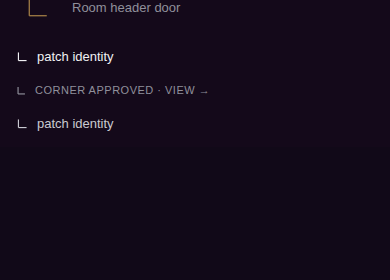
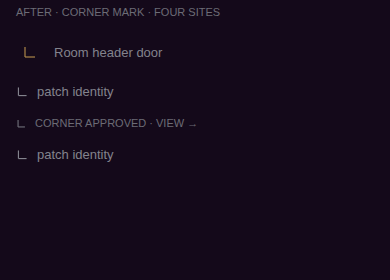
Close the room-header action gap so its marks match the room list.
The 44 boxes now touch like the room-list pair, and CornerGlyph holds its
16px painted arm at size 28 so it reads with the overflow dots beside it.

diff --git a/apps/mobile/sources/components/buzz/CornerGlyph.tsx b/apps/mobile/sources/components/buzz/CornerGlyph.tsx
@@ -2,7 +2,7 @@ import React from 'react';
 import Svg, { Line } from 'react-native-svg';
 import { DECORATIVE_GLYPH_PROPS } from './decorative-glyph';
 import brand from '@/buzz/brand.json';
-import { chromeStrokeWidth } from './MembersGlyph';
+import { CHROME_STROKE_REF_SIZE, chromeStrokeWidth } from './MembersGlyph';
 
 /**
  * The corner sigil, drawn rather than typed. Neither `◇` nor `└` is in Space
@@ -12,21 +12,21 @@ import { chromeStrokeWidth } from './MembersGlyph';
  * box is centred on the box by construction, so it sits level with the
  * overflow mark beside it with nothing to tune.
  *
- * The extent is 15 of the 24 viewBox, which at the 16px header size drew the
- * ~10px mark the character's ~0.6em drew: optically the same mark-size as the
- * overflow dots. The header now draws at 28; the same 15-of-24 fraction keeps
- * this mark optically the same size as the overflow mark beside it.
+ * The extent is 15 of the 24 viewBox at the 16px size that first matched the
+ * overflow dots (~10px painted, the character's ~0.6em). The header now draws
+ * at 28; the overflow holds its painted radius to that 16px weight, so this
+ * mark holds the same ~10px painted extent instead of growing with the box.
+ * Inline sizes (13, 11) stay on 15-of-24.
  *
  * Two strokes meeting at the bottom left: the box-drawing corner the Room
  * list already read as the kind mark, never a diamond.
  */
-const CORNER_EXTENT = 15;
-const CENTRE = 12;
-const REACH = CORNER_EXTENT / 2;
-const LEFT = CENTRE - REACH;
-const RIGHT = CENTRE + REACH;
-const TOP = CENTRE - REACH;
-const BOTTOM = CENTRE + REACH;
+const CORNER_EXTENT_AT_16 = 15;
+
+/** ViewBox extent that keeps the 16px painted arm at `size`, capped at 15. */
+function cornerExtent(size: number): number {
+  return Math.min(CORNER_EXTENT_AT_16, CORNER_EXTENT_AT_16 * (CHROME_STROKE_REF_SIZE / size));
+}
 
 /** Inline next to `type.meta` (bookmarks origin, Room-list tray). */
 export const CORNER_META_SIZE = 13;
@@ -43,6 +43,12 @@ export function CornerGlyph({
   size?: number;
   testID?: string;
 }) {
+  const extent = cornerExtent(size);
+  const reach = extent / 2;
+  const left = 12 - reach;
+  const right = 12 + reach;
+  const top = 12 - reach;
+  const bottom = 12 + reach;
   return (
     <Svg
       {...DECORATIVE_GLYPH_PROPS}
@@ -55,19 +61,19 @@ export function CornerGlyph({
         stroke={color}
         strokeLinecap="butt"
         strokeWidth={chromeStrokeWidth(size)}
-        x1={LEFT}
-        x2={LEFT}
-        y1={TOP}
-        y2={BOTTOM}
+        x1={left}
+        x2={left}
+        y1={top}
+        y2={bottom}
       />
       <Line
         stroke={color}
         strokeLinecap="butt"
         strokeWidth={chromeStrokeWidth(size)}
-        x1={LEFT}
-        x2={RIGHT}
-        y1={BOTTOM}
-        y2={BOTTOM}
+        x1={left}
+        x2={right}
+        y1={bottom}
+        y2={bottom}
       />
     </Svg>
   );

diff --git a/apps/mobile/sources/app/(app)/beeline/chat/_chat-surface.tsx b/apps/mobile/sources/app/(app)/beeline/chat/_chat-surface.tsx
@@ -412,8 +412,9 @@ const INITIAL_CORNER_MESSAGE_WINDOW = 200;
  * carries the touch area over Material's 48dp floor without moving a pixel of
  * chrome. One slop for all of them: the trailing pair used to take a 14 slop
  * that grew a 44 box into a 72 one, so two controls parted by a spacing step
- * of bare slab overlapped each other in the hit layer. 4 never does — the
- * closest pair sit 12 apart and the slop only reaches 4 toward each other.
+ * of bare slab overlapped each other in the hit layer. The Room pair's boxes
+ * now touch (same as the Room-list pair); 4 of slop each way overlaps 8 in
+ * the hit layer, which a 14 slop would have doubled.
  */
 const HEADER_EDGE_HIT_SLOP = { top: 4, bottom: 4, left: 4, right: 4 } as const;
 /**
@@ -4477,7 +4478,7 @@ export function BuzzChatSurface({
               overflow dots read as decoration on the menu rather than as a
               destination of its own, so the door is NAMED, the way every rail
               command is: the mark states the kind, the word states where it
-              goes, and a full space step parts the pair from overflow. */}
+              goes, and the pair's boxes touch like the Room-list chrome. */}
             {!parentChannelId && !isDirectMessage && (
               <TouchableOpacity
                 accessibilityLabel={`${ROOM_LABEL} ${CHANGES_LABEL}`}
@@ -5803,9 +5804,8 @@ const styles = StyleSheet.create((theme) => {
     cornerHeaderArchived: { color: groknight.ledgerGhost },
     // The title and its metadata keep a clear gap before the trailing action.
     // Corner overflow stays a lone 44pt edge control. The Room's pair does not
-    // cluster: the named corners door owns a 44pt-tall target of its own and
-    // the overflow sits a full space step away, so neither reads as chrome
-    // hanging off the other.
+    // cluster: the corners door owns a 44pt-tall target of its own and the
+    // overflow's box touches it, matching the Room-list pair.
     roomActionsButton: {
       minWidth: 44,
       minHeight: 44,
@@ -5823,12 +5823,13 @@ const styles = StyleSheet.create((theme) => {
       alignItems: 'center',
       justifyContent: 'center',
     },
-    // Siblings, not a cluster: the same 44pt box as the corners door, parted
-    // from it by bare slab so neither reads as chrome hanging off the other.
+    // Siblings, not a cluster: the same 44pt box as the corners door. The
+    // boxes touch, so the 28 marks sit 16pt apart — the same ink gap the
+    // Room-list pair already has.
     roomClusteredActionsButton: {
       minWidth: 44,
       minHeight: 44,
-      marginLeft: groknight.space.lg,
+      marginLeft: 0,
       alignItems: 'center',
       justifyContent: 'center',
     },

diff --git a/apps/mobile/sources/components/buzz/header-ladder.design.test.ts b/apps/mobile/sources/components/buzz/header-ladder.design.test.ts
@@ -1,7 +1,6 @@
 import { readFileSync } from 'node:fs';
 import path from 'node:path';
 import { describe, expect, it } from 'vitest';
-import { typeRoles, space } from '@/buzz/groknight';
 
 /**
  * Design invariants for the chat screen's top bar — the Room and its Corners
@@ -132,10 +131,10 @@ describe('Chat header — one language for Room and Corner', () => {
     expect(chatSource).not.toContain('HEADER_TRAILING_HIT_SLOP');
   });
 
-  it('gives the Room corners door a large lone sigil parted from overflow', () => {
-    // Captain 2026-09-20: the door is the diamond ALONE — no word beside it —
-    // visibly larger than the overflow dots and separated from them by bare
-    // slab, with a real 44pt target of its own.
+  it('gives the Room corners door a large lone sigil beside overflow', () => {
+    // Captain 2026-09-20: the door is the sigil ALONE — no word beside it —
+    // with a real 44pt target of its own. The overflow's box now touches it,
+    // matching the Room-list pair.
     expect(chatSource).toContain('testID="room-corners-menu"');
     expect(chatSource).toContain('accessibilityLabel={`${ROOM_LABEL} ${CHANGES_LABEL}`}');
     expect(chatSource).toContain('<CornerGlyph');
@@ -186,12 +185,13 @@ describe('Chat header — one language for Room and Corner', () => {
       expect(doorButton![0], metric).toContain(metric);
       expect(overflowBox![0], metric).toContain(metric);
     }
-    // Bare slab between the named door and the dots, on top of the door's own
-    // padding: two controls a thumb must hit separately cannot share an edge.
+    // Boxes touch, same as the Room-list pair: 44-28=16 of ink between the
+    // marks. A space.lg gutter was the leftover that made this pair read as
+    // a different chrome from the Room list.
     const clustered = chatSource.match(/roomClusteredActionsButton:\s*\{[\s\S]*?\n    \},/);
     expect(clustered, 'missing trailing overflow style').toBeTruthy();
-    expect(clustered![0]).toContain('marginLeft: groknight.space.lg');
-    expect(space.lg).toBeGreaterThan(space.md);
+    expect(clustered![0]).toContain('marginLeft: 0');
+    expect(clustered![0]).not.toContain('groknight.space');
     // No badge, plate or count grows on it: a door says where it goes, and
     // the list behind it does the counting.
     expect(chatSource).not.toMatch(/roomCorners(?:Badge|Count|Plate)/);

diff --git a/apps/mobile/sources/components/buzz/CornerGlyph.test.ts b/apps/mobile/sources/components/buzz/CornerGlyph.test.ts
@@ -33,7 +33,7 @@ beforeAll(() => {
 afterAll(() => vi.restoreAllMocks());
 
 describe('CornerGlyph', () => {
-  it('draws two strokes meeting at the bottom left, 15 of 24, stroke scaled to size', () => {
+  it('draws two strokes meeting at the bottom left, holding the 16px painted arm at 28', () => {
     let renderer!: ReturnType<typeof create>;
     act(() => {
       renderer = create(React.createElement(CornerGlyph, { size: 28, testID: 'corner-glyph' }));
@@ -45,23 +45,38 @@ describe('CornerGlyph', () => {
     expect(svg.props.height).toBe(28);
     expect(svg.props.accessibilityElementsHidden).toBe(true);
 
+    const extent = 15 * (16 / 28);
+    expect(extent * (28 / 24)).toBeCloseTo(10, 5);
+    const reach = extent / 2;
+    const left = 12 - reach;
+    const right = 12 + reach;
+    const top = 12 - reach;
+    const bottom = 12 + reach;
+
     const lines = renderer.root.findAllByType('Line' as never);
     expect(lines).toHaveLength(2);
     const [upright, across] = lines;
-    expect(upright.props.x1).toBe(4.5);
-    expect(upright.props.x2).toBe(4.5);
-    expect(upright.props.y1).toBe(4.5);
-    expect(upright.props.y2).toBe(19.5);
-    expect(across.props.x1).toBe(4.5);
-    expect(across.props.x2).toBe(19.5);
-    expect(across.props.y1).toBe(19.5);
-    expect(across.props.y2).toBe(19.5);
+    expect(upright.props.x1).toBeCloseTo(left, 5);
+    expect(upright.props.x2).toBeCloseTo(left, 5);
+    expect(upright.props.y1).toBeCloseTo(top, 5);
+    expect(upright.props.y2).toBeCloseTo(bottom, 5);
+    expect(across.props.x1).toBeCloseTo(left, 5);
+    expect(across.props.x2).toBeCloseTo(right, 5);
+    expect(across.props.y1).toBeCloseTo(bottom, 5);
+    expect(across.props.y2).toBeCloseTo(bottom, 5);
     expect(across.props.stroke).toBe(brand.mark);
     expect(across.props.strokeWidth).toBe(chromeStrokeWidth(28));
     expect(chromeStrokeWidth(28) * (28 / 24)).toBeCloseTo(
       MEMBERS_GLYPH_STROKE_WIDTH * (16 / 24),
       5,
     );
+
+    act(() => {
+      renderer = create(React.createElement(CornerGlyph, { size: 16 }));
+    });
+    const at16 = renderer.root.findAllByType('Line' as never)[0]!;
+    expect(at16.props.x1).toBe(4.5);
+    expect(at16.props.y2).toBe(19.5);
   });
 
   it('keeps the inline sizes on the meta and status lines', () => {
